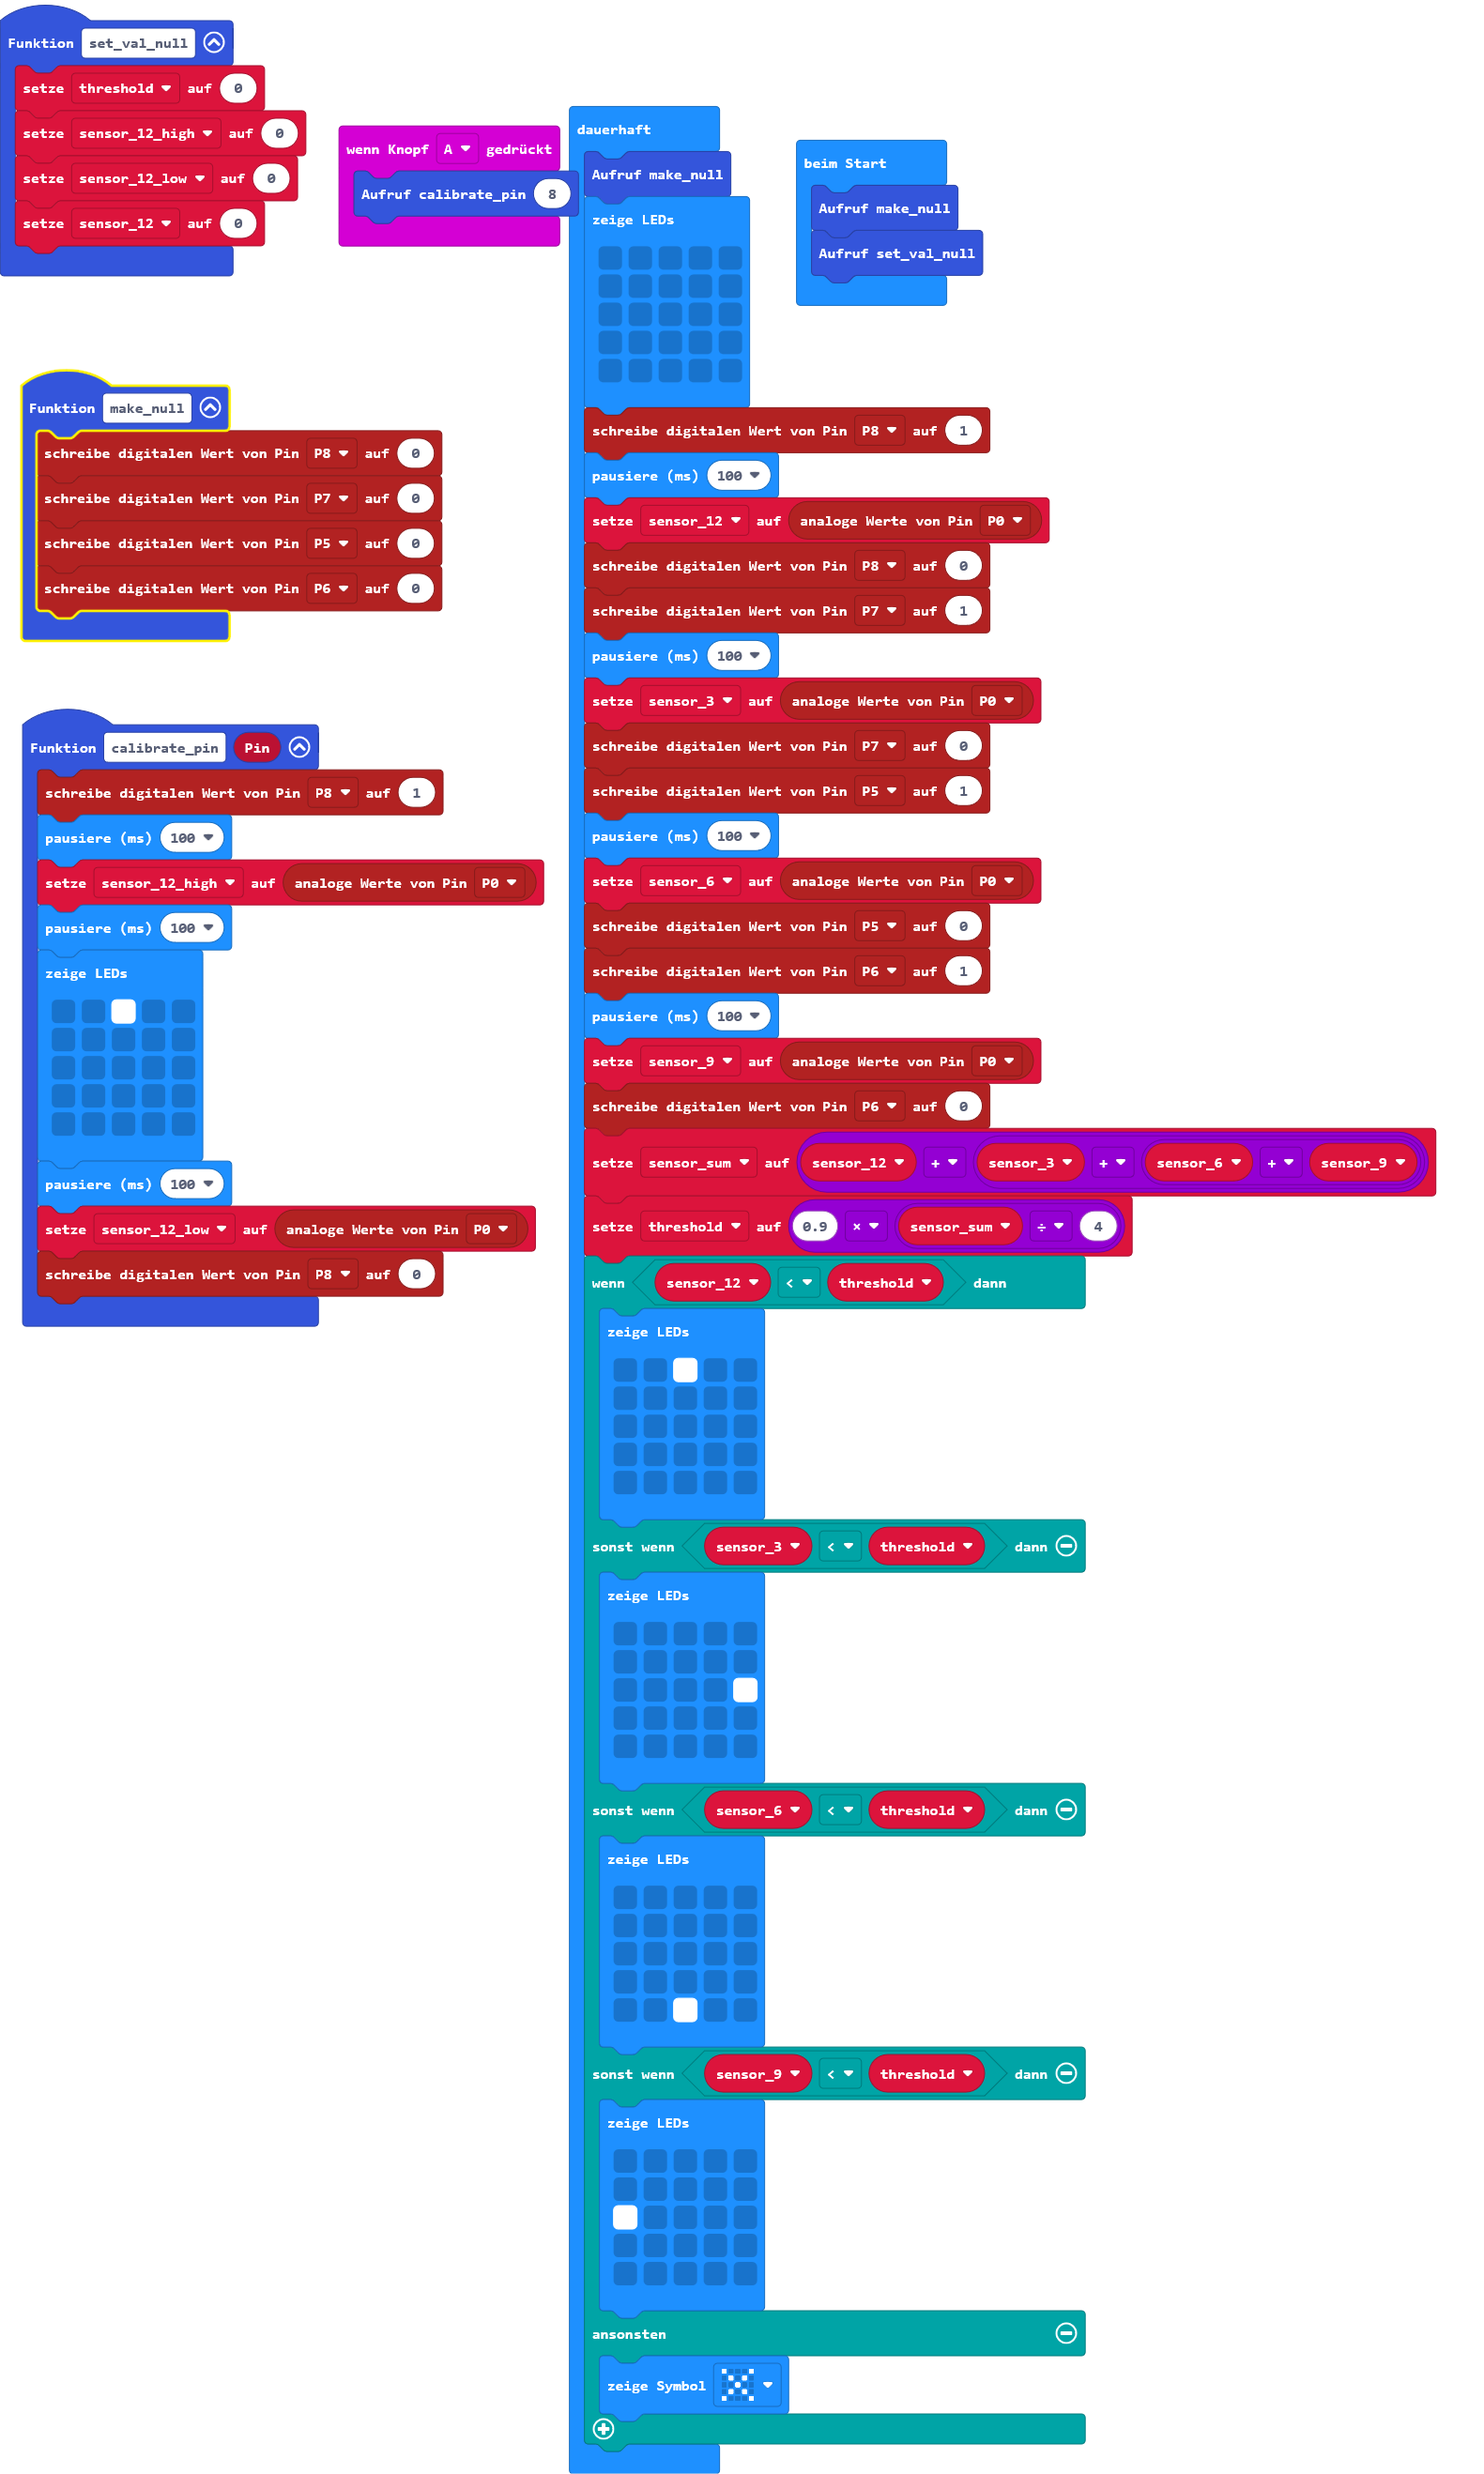
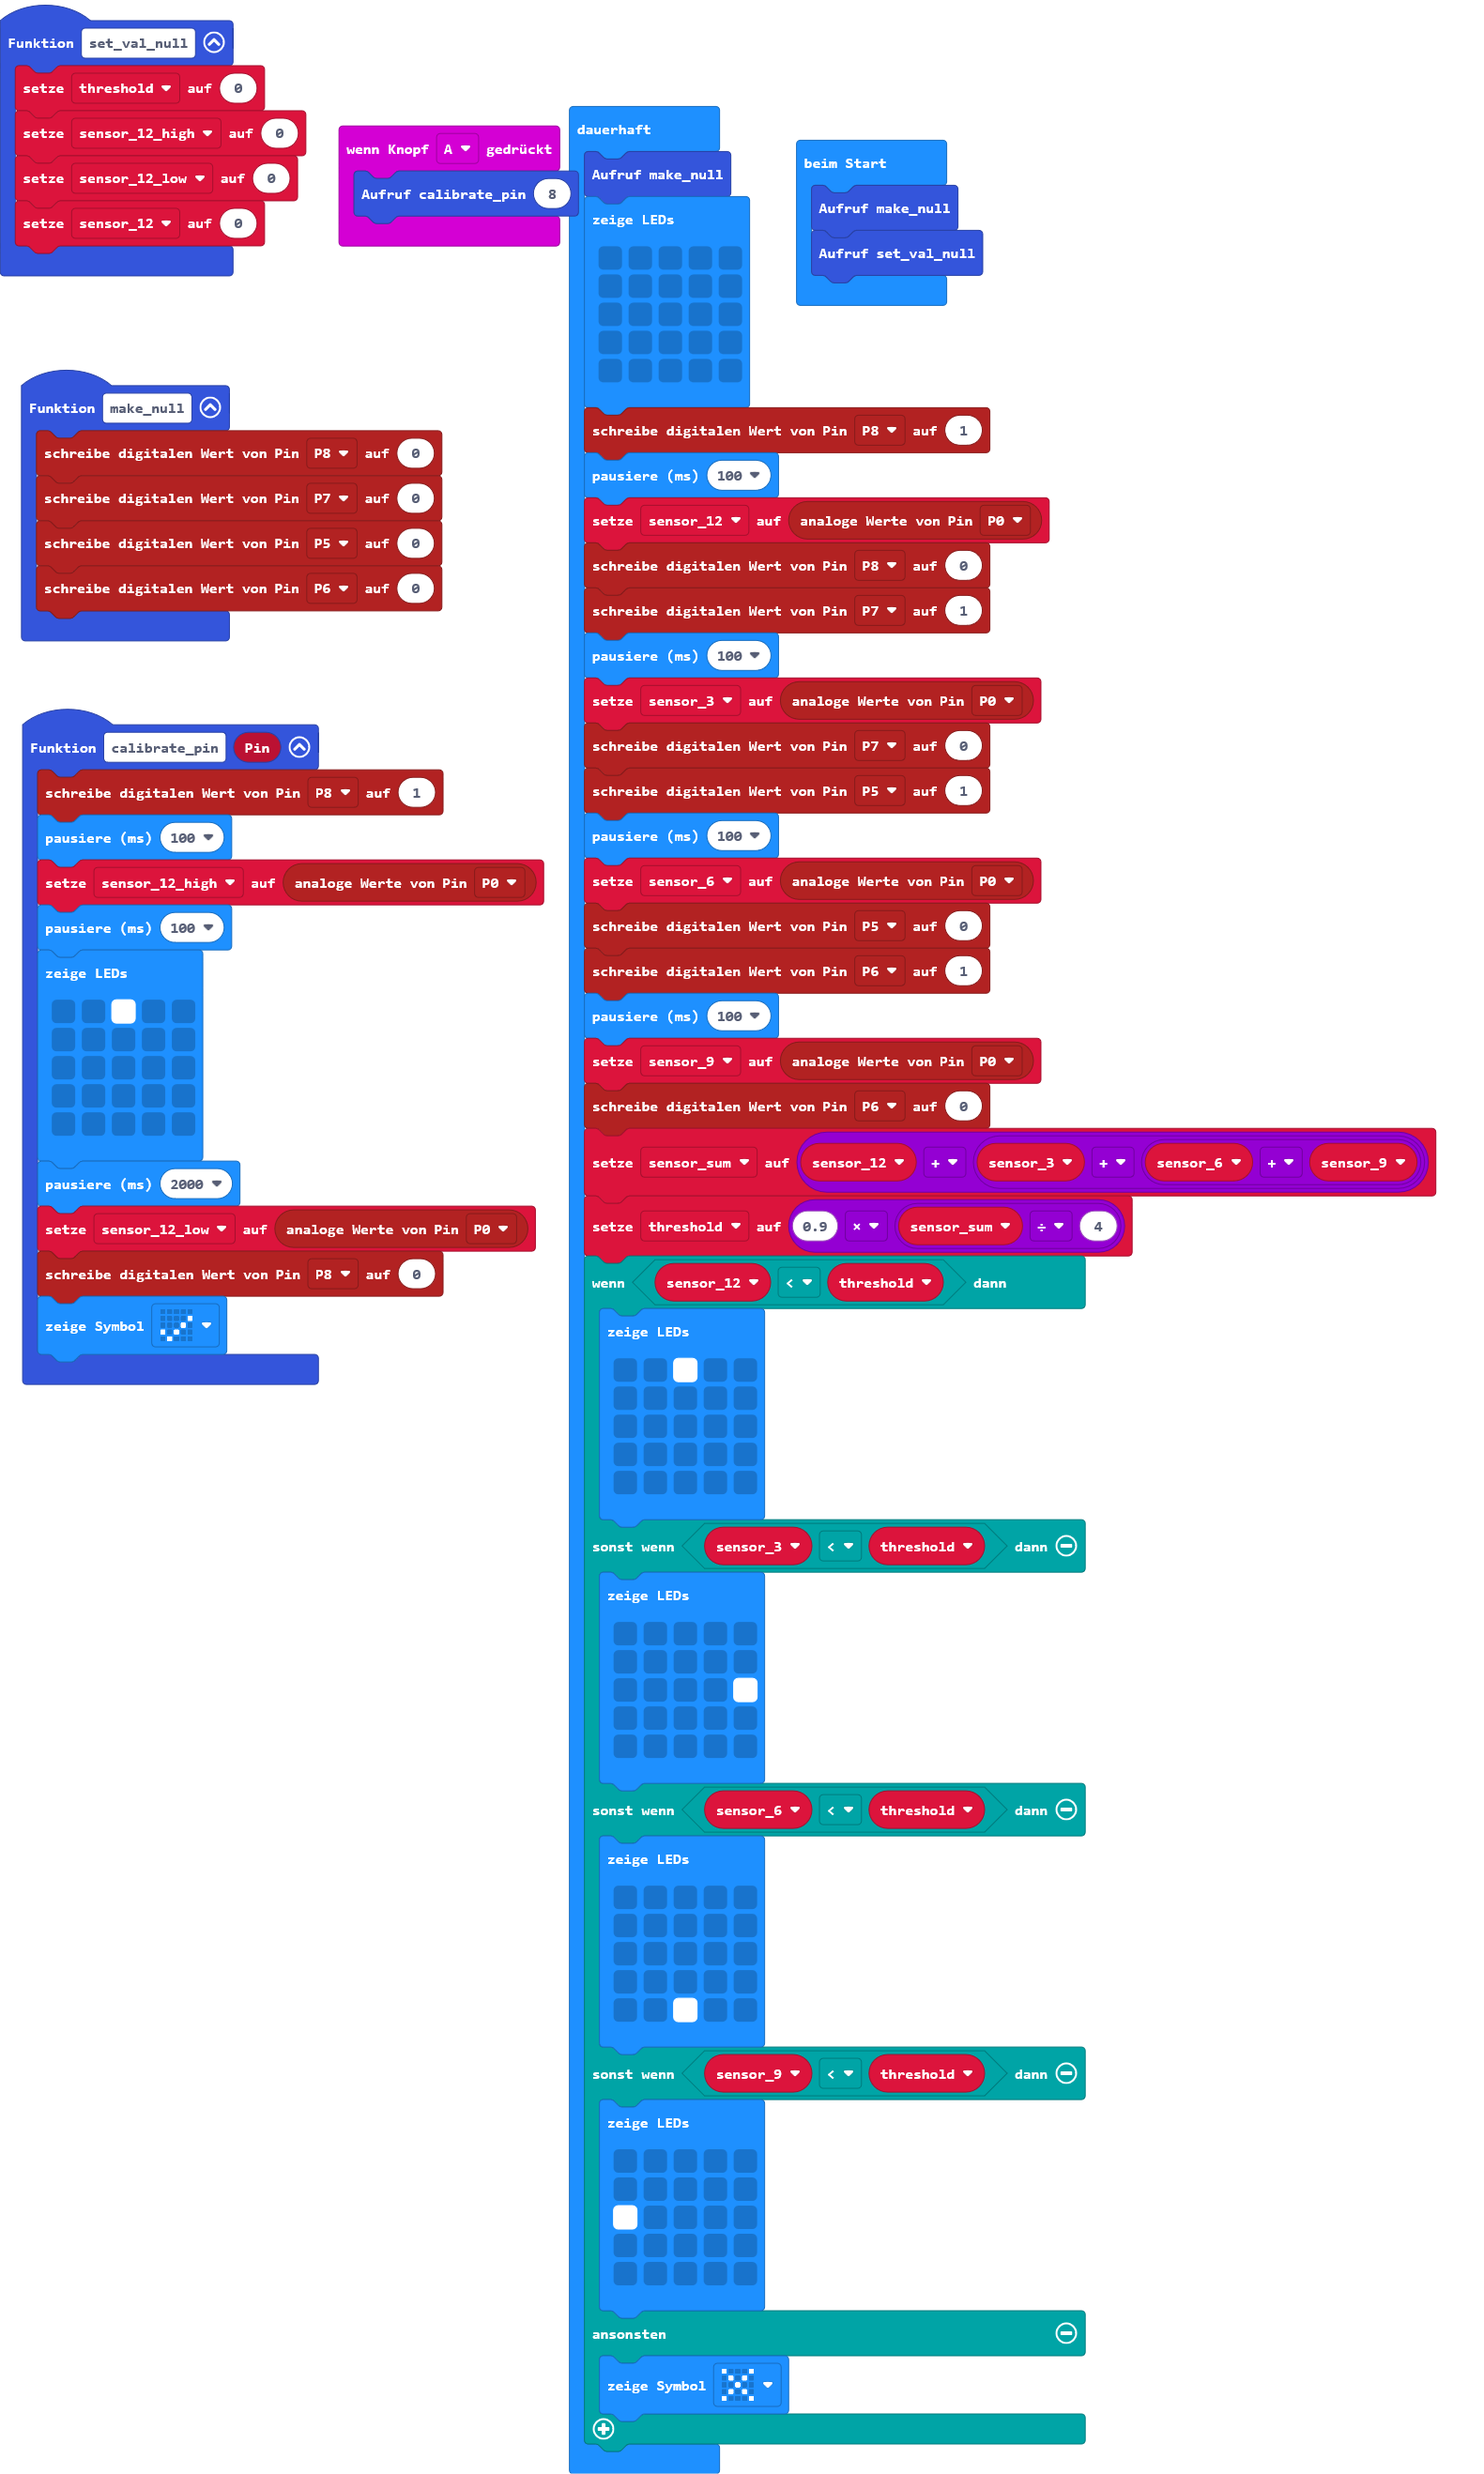
Aktualisiere main.blocks, main.ts

Changed region(s): [[0.0, 0.4666, 0.217, 0.5599], [0.0, 0.1555, 0.031, 0.2489], [0.124, 0.1555, 0.155, 0.1866]]

diff --git a/main.ts b/main.ts
@@ -25,9 +25,10 @@ function calibrate_pin (Pin: number) {
         . . . . .
         . . . . .
         `)
-    basic.pause(100)
+    basic.pause(2000)
     sensor_12_low = pins.analogReadPin(AnalogPin.P0)
     pins.digitalWritePin(DigitalPin.P8, 0)
+    basic.showIcon(IconNames.Yes)
 }
 let sensor_sum = 0
 let sensor_9 = 0
